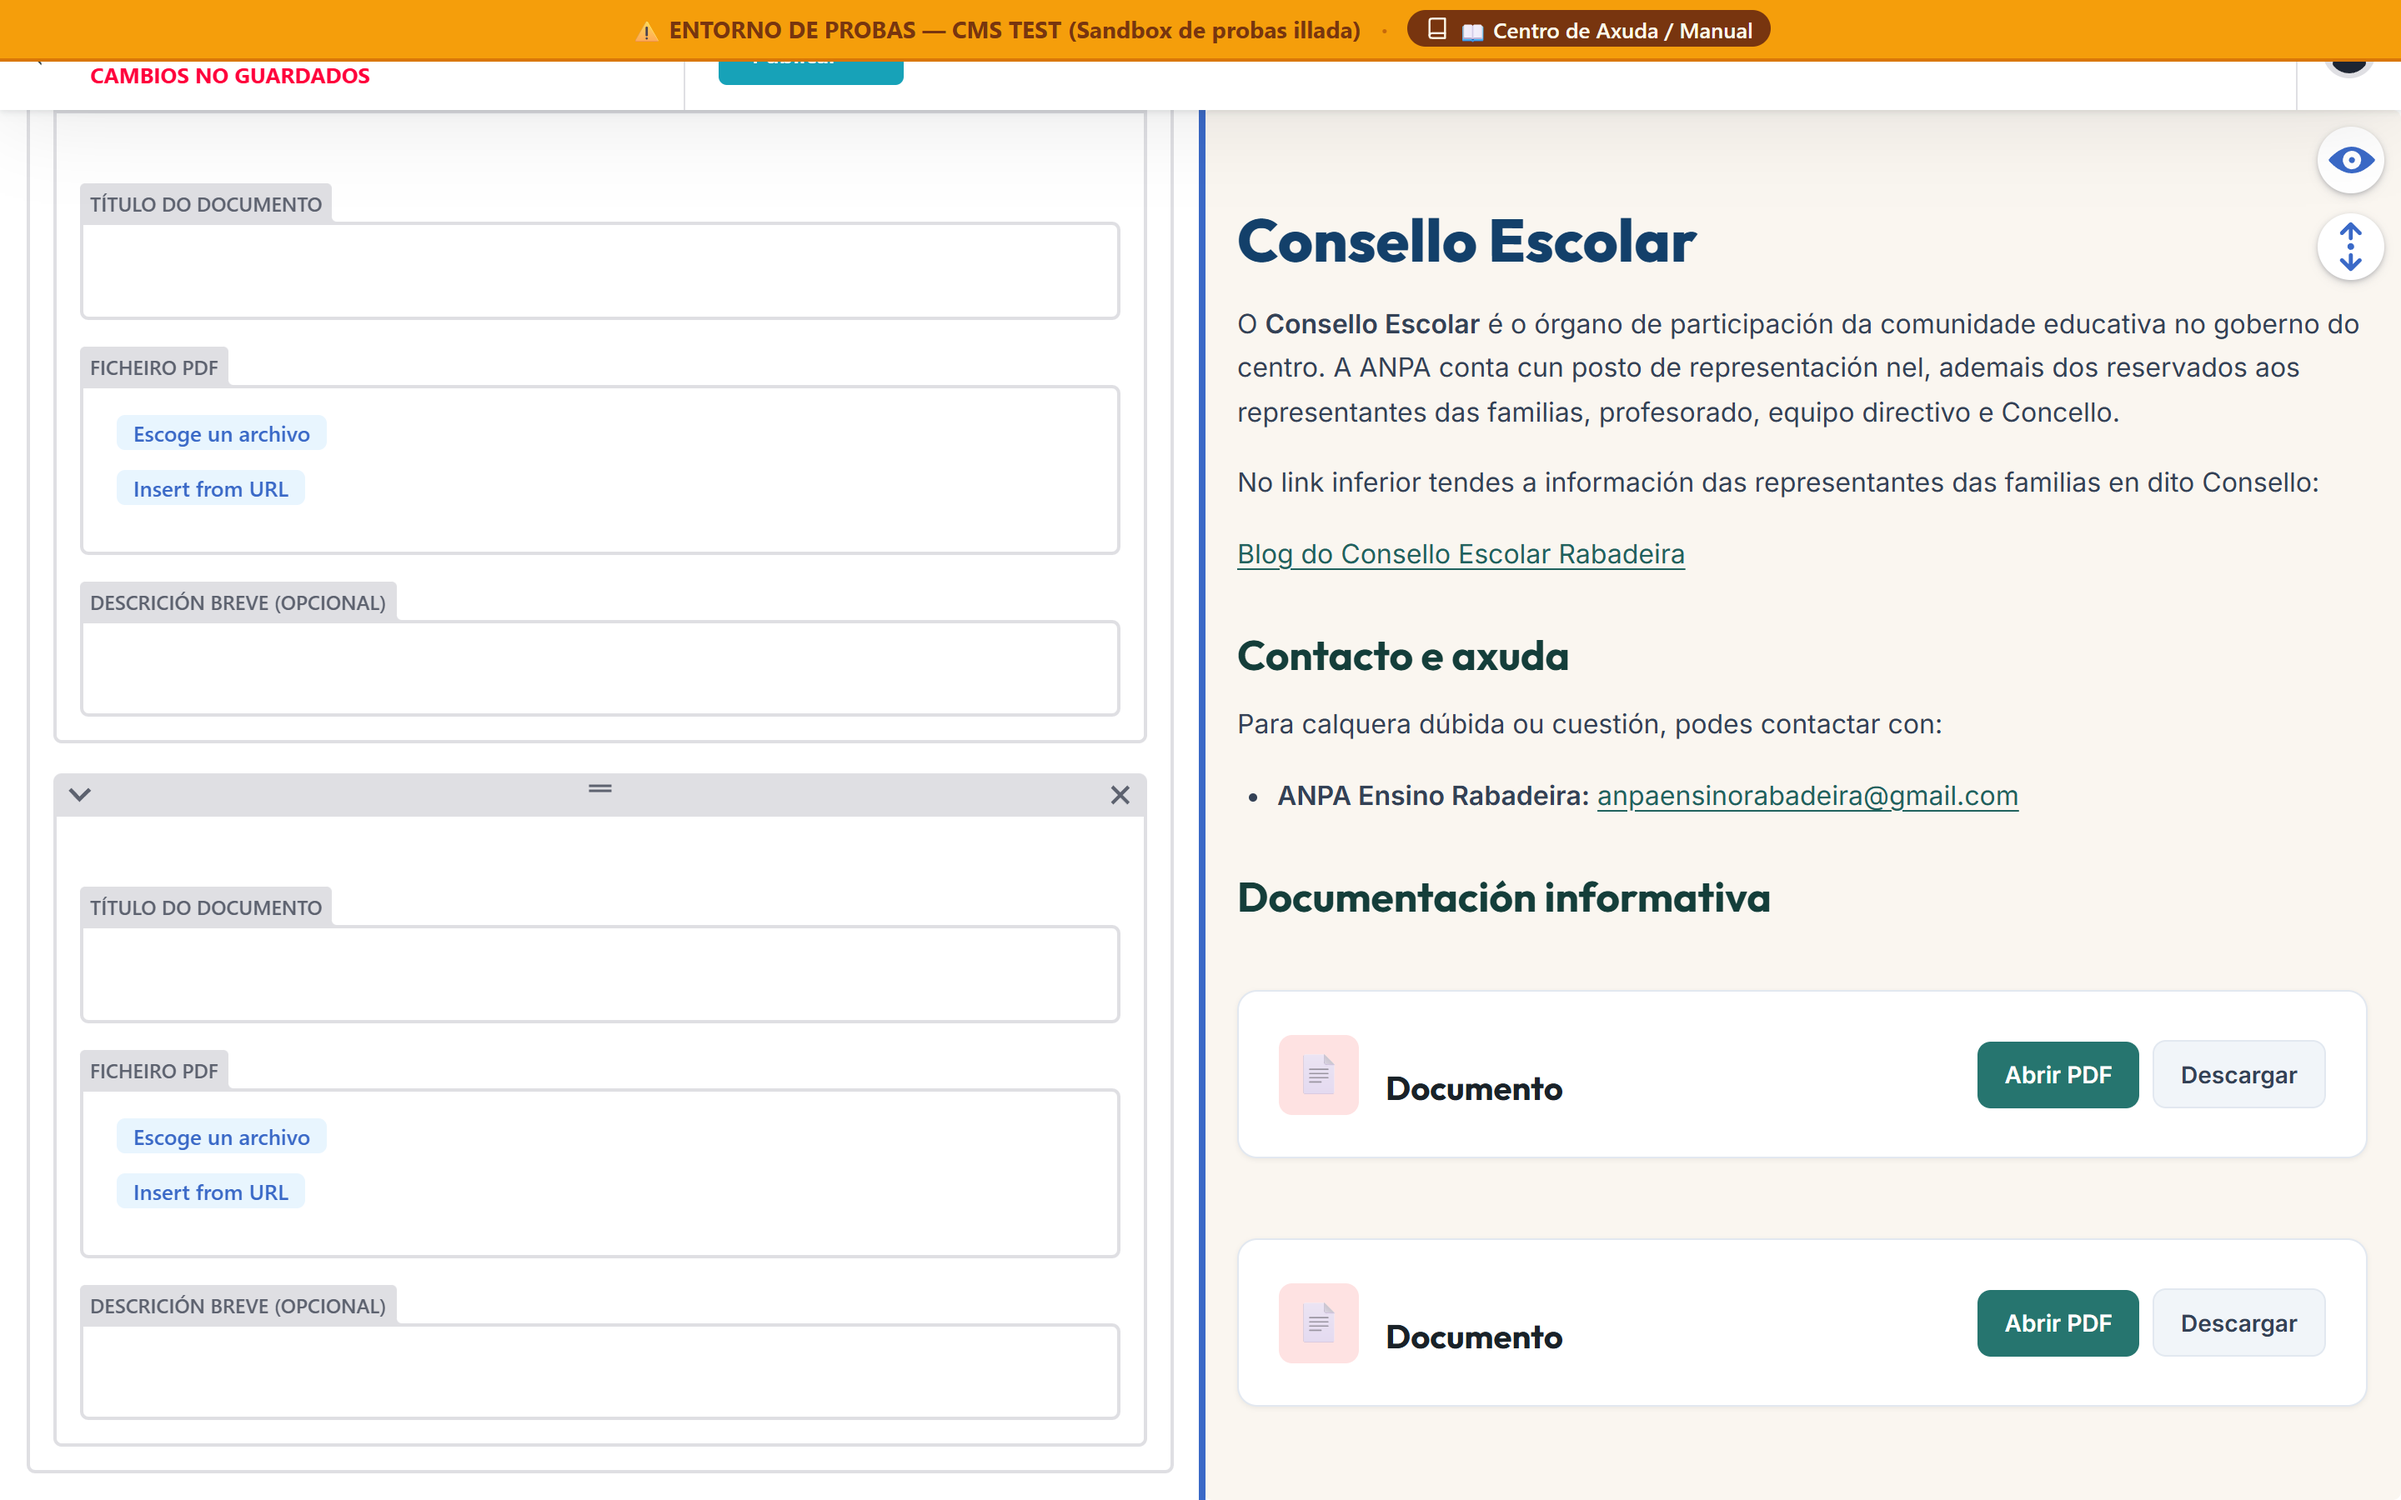
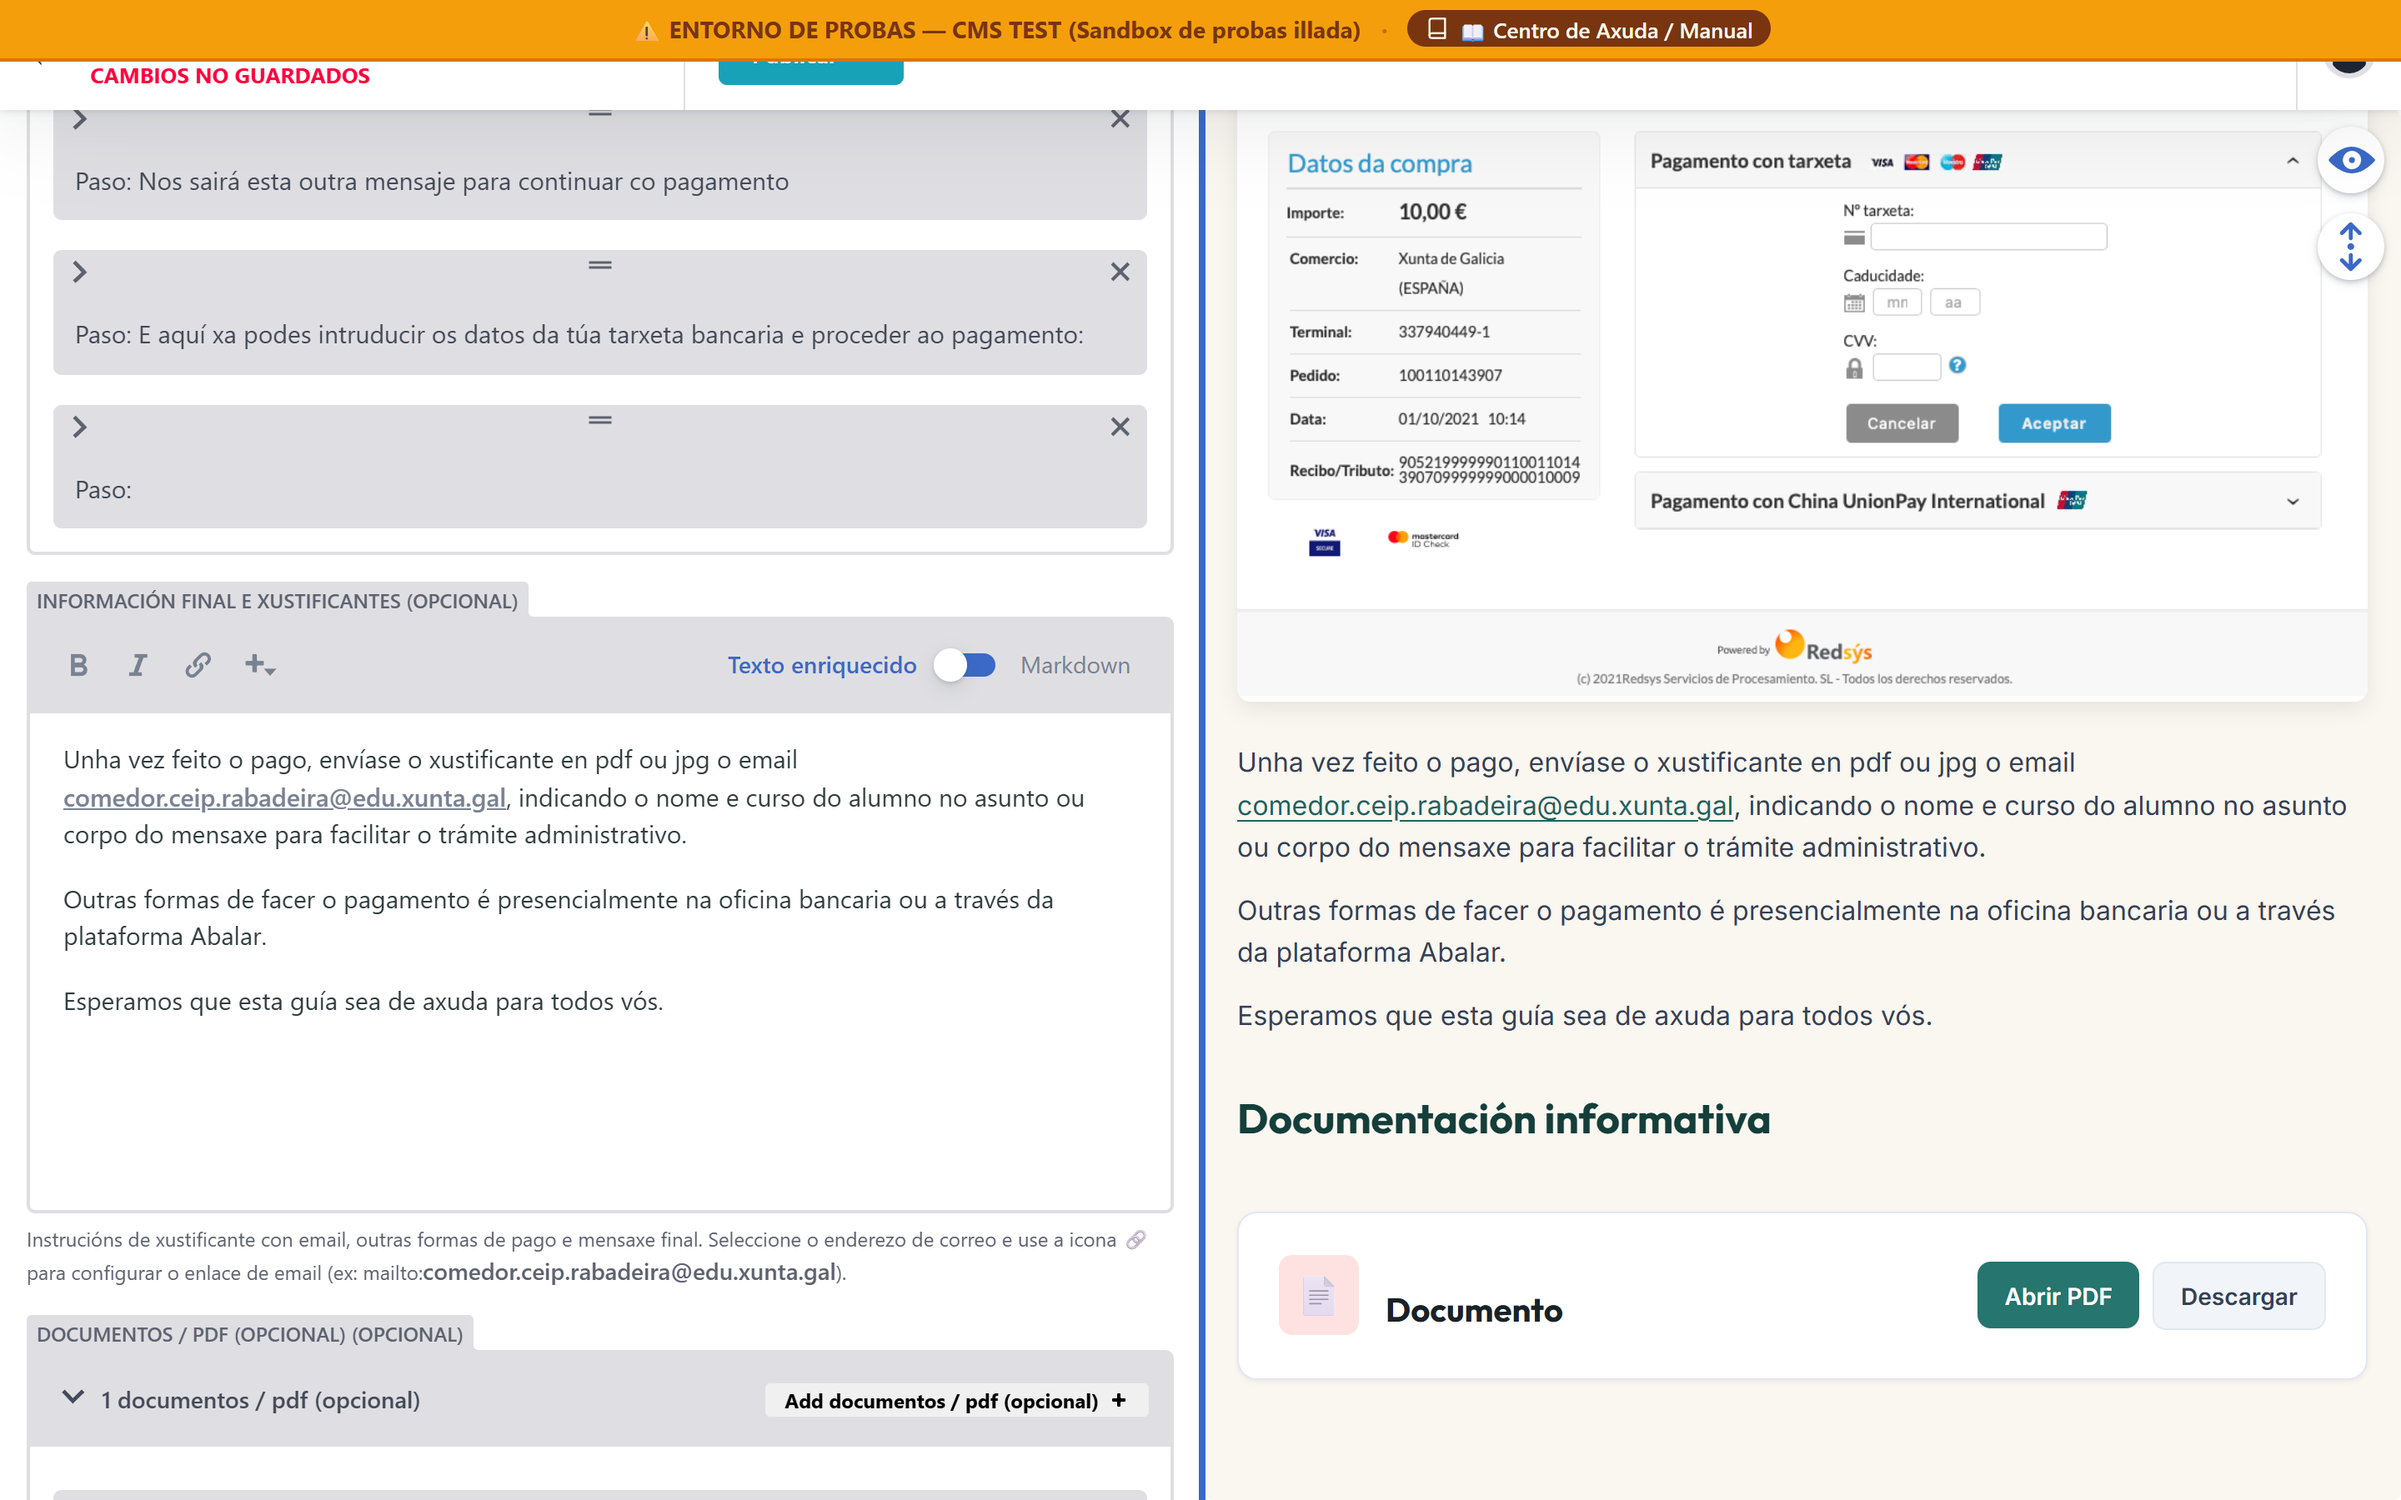
docs(manual): correct Comedor CAP-15 screenshot and add dedicated PDF section

diff --git a/docs/manual/06-pago-comedor.md b/docs/manual/06-pago-comedor.md
@@ -58,9 +58,6 @@ Cada paso de la lista contiene tres campos:
 ![Detalle de los pasos ilustrados de la guía de ATRIGA en Decap CMS](img/CAP-14-COMEDOR-ATRIGA-STEPS.png)
 *Figura 15: Detalle de los pasos ilustrados de la guía de pago de ATRIGA con campos de descripción y captura adjunta.*
 
-![Bloque de documentos y guías en PDF descargables para comedor](img/CAP-15-COMEDOR-DOCUMENTOS-PDF.png)
-*Figura 16: Bloque inferior de documentos PDF opcionales para adjuntar guías tributarias o trípticos oficiales.*
-
 ### La secuencia oficial de los 11 pasos:
 1. **Paso 1:** *No apartado de CIDADÁNS, premes iniciar taxa* (Captura `/img/comedor/paso-1.png`).
 2. **Paso 2:** *Candado aberto é para o acceso libre ao servizo. Pechado se tedes certificado dixital* (Captura `/img/comedor/paso-2.png`).
@@ -106,14 +103,36 @@ Si el colegio cambia de correo para la recepción de justificantes de comedor:
 
 ---
 
-## 7. Qué se puede cambiar con total tranquilidad y qué no tocar
+## 7. Cómo adjuntar guías o impresos en PDF (opcional)
+
+Si la ANPA o el colegio publican una circular informativa, el impreso de domiciliación bancaria o una guía tributaria oficial en PDF, puedes adjuntarla para que las familias la descarguen directamente desde la página de Comedor.
+
+![Bloque de documentos y guías en PDF descargables para comedor](img/CAP-15-COMEDOR-DOCUMENTOS-PDF.png)
+*Figura 16: Bloque inferior de documentos PDF opcionales para adjuntar guías tributarias o impresos de comedor.*
+
+### A) Cómo añadir un documento PDF:
+1. Dentro del editor de **🍽 Pago do Comedor**, baja hasta el bloque **Documentos / PDF (opcional)** situado al final del formulario.
+2. Si la lista está vacía, pulsa en el botón **Add documentos / pdf (opcional)**.
+3. Se abrirá una tarjeta con tres casillas:
+   * **Título do documento:** Nombre visible y descriptivo (ej: *Guía tributaria de axuda ATRIGA 2026-2027*).
+   * **Ficheiro PDF:** Haz clic en **Elegir un archivo** -> **Subir archivo**, selecciona el documento PDF desde tu ordenador y pulsa en **Insertar**.
+   * **Descrición breve:** Resumen aclaratorio que verán las familias bajo el título (ej: *Folleto oficial con instrucións de taxas e códigos de autoliquidación*).
+4. En el panel de vista previa derecho verás cómo se genera automáticamente una tarjeta con el icono del documento y dos botones: **Abrir PDF** (para consultarlo en el navegador) y **Descargar** (para guardarlo en el móvil o equipo).
+
+### B) Cómo eliminar o sustituir un documento PDF:
+* **Para sustituir el archivo:** Pulsa sobre **Elegir un archivo** en la tarjeta existente y selecciona el nuevo documento PDF.
+* **Para eliminarlo:** Pulsa en el icono de la papelera (**Eliminar**) situado en la esquina superior de la tarjeta del documento.
+
+---
+
+## 8. Qué se puede cambiar con total tranquilidad y qué no tocar
 * ✅ **Se puede cambiar con tranquilidad:** Actualizar capturas de pantalla, retocar textos explicativos para que se entiendan mejor, añadir nuevas instrucciones o adjuntar un PDF de ayuda.
 * 🚫 **NO desordenes los 11 pasos:** La guía está pensada para seguirse en orden estricto mientras la persona tiene abierta la web de ATRIGA en otra pestaña.
 * 🚫 **NO elimines la advertencia sobre el nombre del alumno:** Indicar el nombre y curso del menor en el justificante es obligatorio para que el colegio pueda identificar de quién es cada pago bancario.
 
 ---
 
-## 8. Errores habituales y soluciones
+## 9. Errores habituales y soluciones
 * **"He subido una captura y se ve gigante o borrosa":**
   * *Solución:* Toma capturas de pantalla en formato PNG con resolución nítida recortando solo la zona relevante de la ventana de ATRIGA, evitando capturar todo el escritorio de tu ordenador.
 * **"El enlace al portal tributario da error":**
